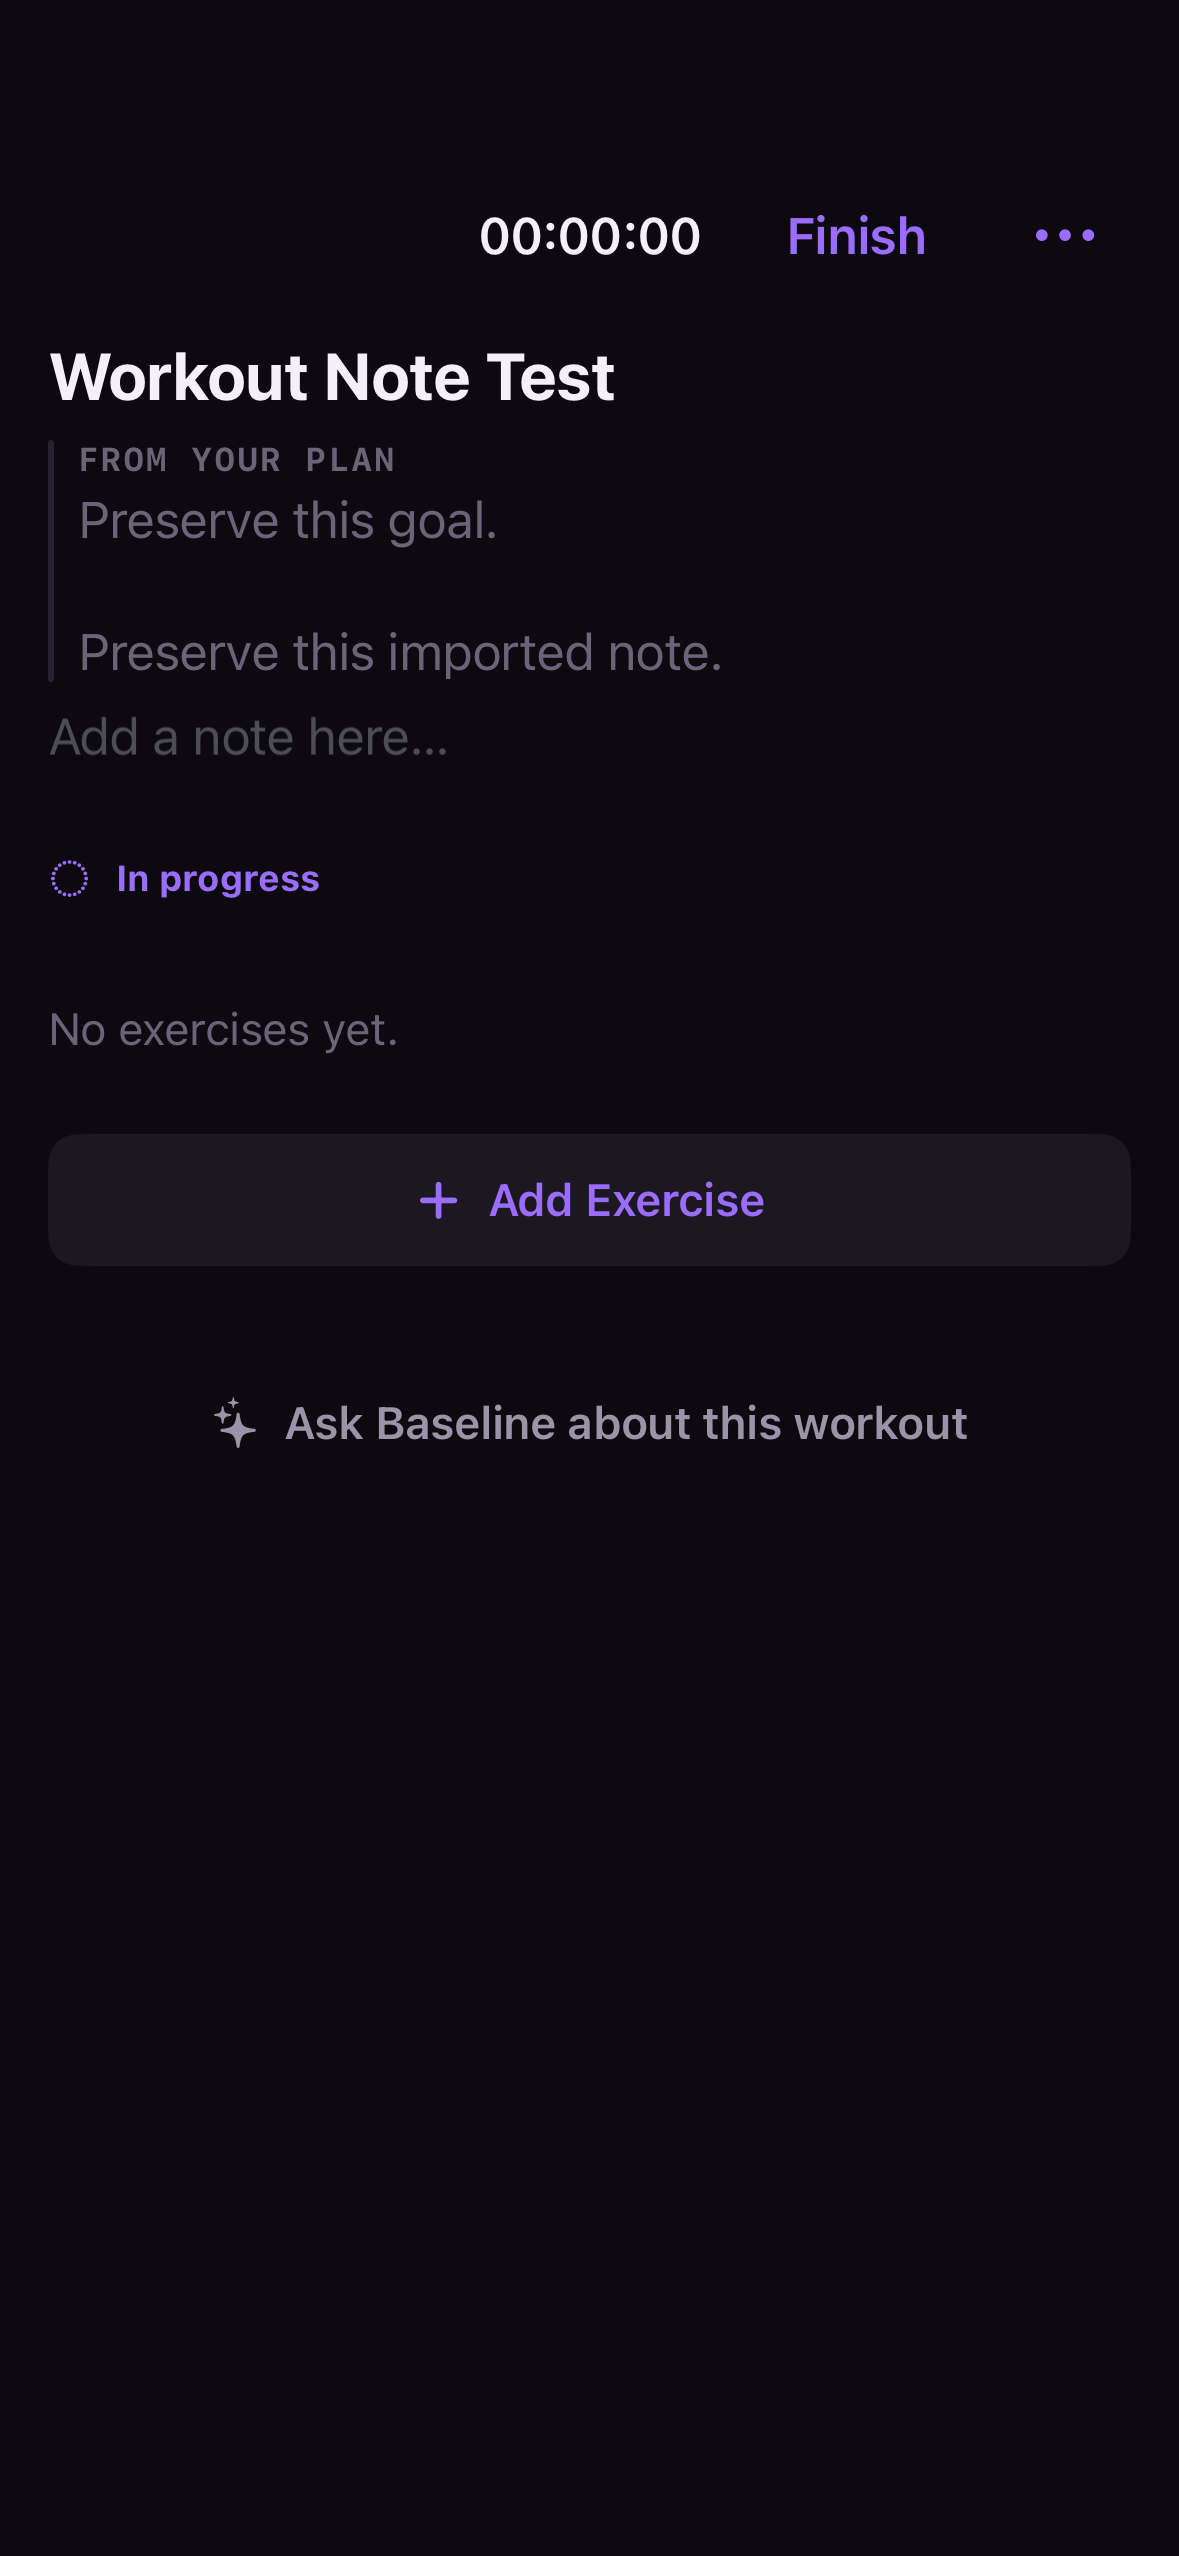
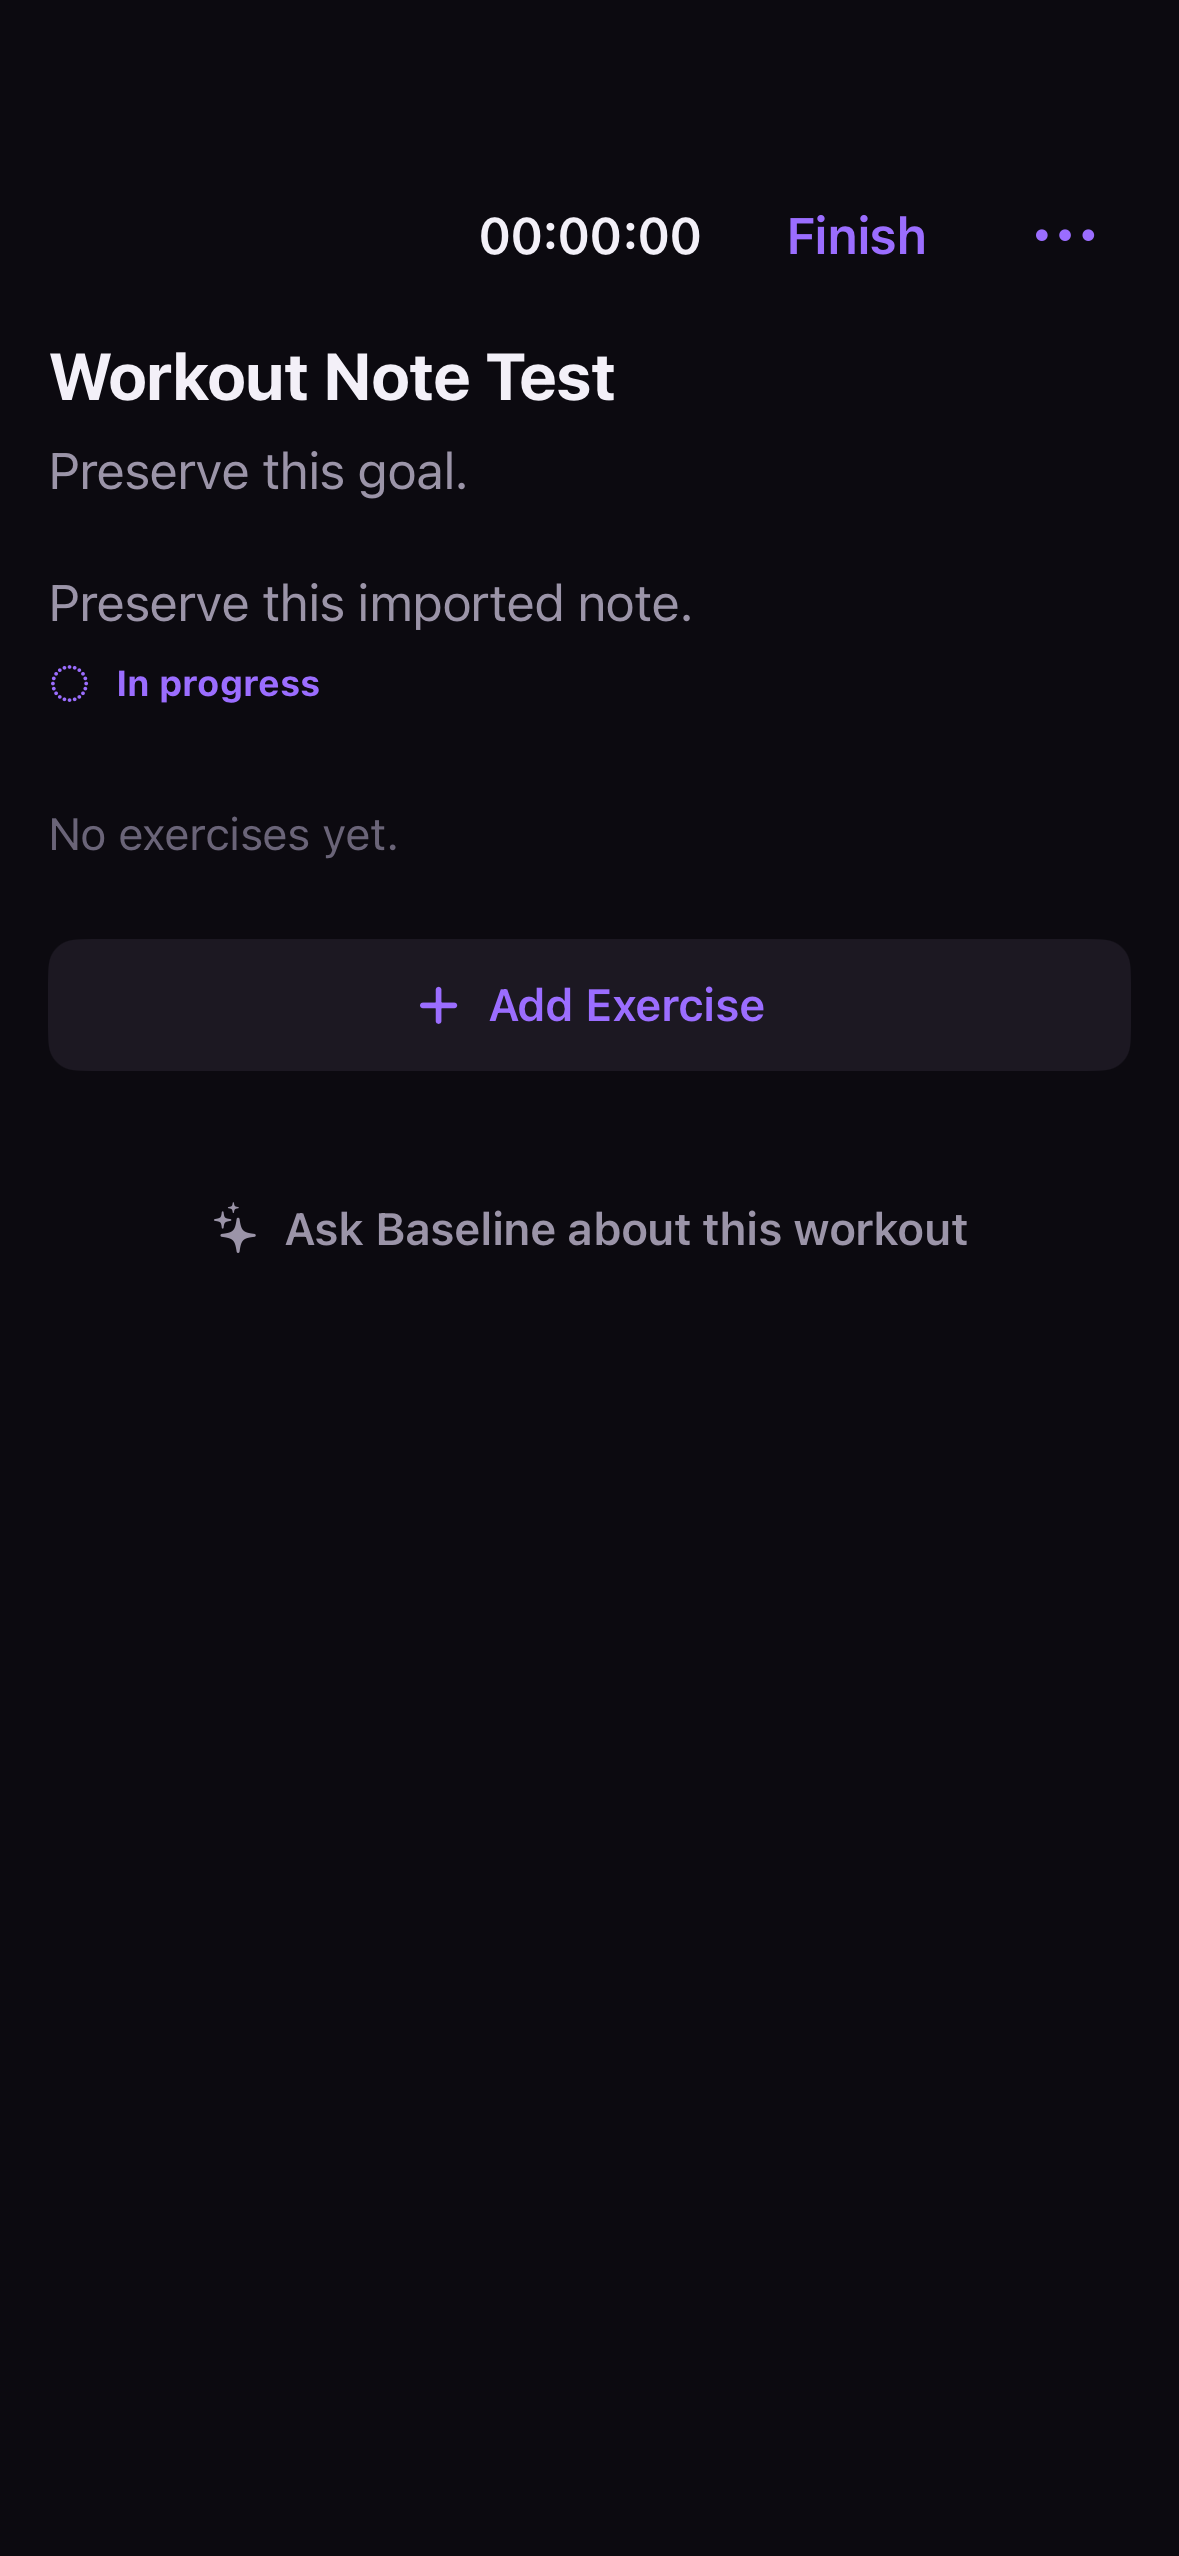
no-mistakes(review): show plan text in the one note field, drop second block

diff --git a/BaselineTests/WorkoutNoteConsolidationRenderTests.swift b/BaselineTests/WorkoutNoteConsolidationRenderTests.swift
@@ -26,45 +26,49 @@ extension IdleTimerRenderTests {
             #expect(screen.workout?.guidance == CoachGuidance(formCues: ["Preserve this imported note."]))
         }
 
-        @Test func loggingShowsThePlanNoteReadOnlyBesideAnEmptyEditableNote() async throws {
+        @Test func loggingShowsThePlanTextInTheOneFieldAndAdoptsItOnTheFirstEdit() async throws {
             let screen = try await WorkoutNoteScreen(stage: .logging, includesLegacyNotes: true)
             defer { screen.tearDown() }
 
-            #expect(screen.hasLabel(containing: "Workout goal") == false)
-
-            // The plan's own text is read-only context, not a prefill: exactly one field is editable and
-            // it starts empty, so the first keystroke can only commit what the athlete typed.
-            #expect(screen.hasLabel(containing: """
-            Plan note. Preserve this goal.
+            let planText = """
+            Preserve this goal.
 
             Preserve this imported note.
-            """))
+            """
+
+            // One workout-level surface, before and after the first edit: the plan's text is the field's
+            // own content rather than a second block that would vanish out from under the cursor.
+            #expect(screen.hasLabel(containing: "Workout goal") == false)
+            #expect(screen.hasLabel(containing: "Plan note") == false)
             #expect(screen.inputCount(labelled: "Workout note") == 1)
-            #expect(screen.inputText(labelled: "Workout note") == "")
-            #expect(screen.hasRenderedText("Add a note here…"))
+            #expect(screen.inputText(labelled: "Workout note") == planText)
+            #expect(screen.hasRenderedText("Add a note here…") == false)
+
+            // Nothing is written until the athlete acts: `startLog` seeded no performed note.
             #expect(screen.log?.athleteNotes == [])
             #expect(screen.log?.hasAuthoredNotes == false)
             try screen.capture("workout-note-plan-fallback")
 
-            try screen.replaceInput(labelled: "Workout note", with: "Legs heavy today.")
+            try screen.replaceInput(labelled: "Workout note", with: "\(planText)\n\nLegs heavy today.")
             try await screen.settle()
 
-            // Typing writes the performed note only; the plan keeps its goal and its guidance, and the
-            // read-only block steps aside now that the session has a note of its own.
-            #expect(screen.log?.athleteNotes == ["Legs heavy today."])
-            #expect(screen.inputText(labelled: "Workout note") == "Legs heavy today.")
-            #expect(screen.hasLabel(containing: "Plan note. Preserve this goal.") == false)
+            // The first edit adopts what was on screen plus the athlete's own words into the log, and
+            // leaves the plan's goal and structured guidance exactly as they were.
+            #expect(screen.log?.athleteNotes == ["\(planText)\n\nLegs heavy today."])
+            #expect(screen.log?.hasAuthoredNotes == true)
+            #expect(screen.inputCount(labelled: "Workout note") == 1)
+            #expect(screen.inputText(labelled: "Workout note") == "\(planText)\n\nLegs heavy today.")
+            #expect(screen.hasLabel(containing: "Plan note") == false)
             #expect(screen.workout?.goal == "Preserve this goal.")
             #expect(screen.workout?.guidance == CoachGuidance(formCues: ["Preserve this imported note."]))
 
-            // Clearing it leaves it cleared: the plan's note can no longer reappear under the cursor.
+            // Clearing it leaves it cleared: the plan's text can no longer reappear under the cursor.
             try screen.replaceInput(labelled: "Workout note", with: "")
             try await screen.settle()
 
             #expect(screen.inputCount(labelled: "Workout note") == 1)
             #expect(screen.inputText(labelled: "Workout note") == "")
             #expect(screen.hasRenderedText("Add a note here…"))
-            #expect(screen.hasLabel(containing: "Plan note. Preserve this goal.") == false)
             #expect(screen.log?.athleteNotes == [])
             #expect(screen.log?.hasAuthoredNotes == true)
         }
@@ -156,7 +160,13 @@ private final class WorkoutNoteScreen: HostedScreen {
         UIApplication.shared.isIdleTimerDisabled = false
     }
 
+    /// UIKit keeps a text field's placeholder label in the hierarchy after the field gains text, so a
+    /// plain lookup would report a placeholder the athlete cannot see. Only labels that actually render
+    /// count.
     func hasRenderedText(_ text: String) -> Bool {
-        views().contains { ($0 as? UILabel)?.text == text }
+        views().contains { view in
+            guard let label = view as? UILabel, label.text == text else { return false }
+            return sequence(first: label, next: \.superview).allSatisfy { !$0.isHidden && $0.alpha > 0.01 }
+        }
     }
 }

diff --git a/Baseline/Features/Workout/WorkoutView.swift b/Baseline/Features/Workout/WorkoutView.swift
@@ -451,9 +451,6 @@ struct WorkoutView: View {
                 .fixedSize(horizontal: false, vertical: true)
 
             if mode.usesPerformedData {
-                if store.currentLog?.hasAuthoredNotes != true, !workout.notesText.isEmpty {
-                    WorkoutPlanNote(text: workout.notesText, font: .body, accessibilityLabel: "Plan note")
-                }
                 WorkoutNotesField(
                     prompt: "Add a note here…",
                     text: sessionNotesBinding,
@@ -572,13 +569,17 @@ struct WorkoutView: View {
         isEditingTemplate = false
     }
 
-    /// The one workout-level note typed while logging or reviewing a session. It is exactly the
-    /// performed note — never prefilled from the plan — so the first keystroke commits only what the
-    /// athlete typed, and backspacing to empty leaves it empty. The plan's own text is a separate
-    /// read-only block above, shown until this field has been committed once.
+    /// The one workout-level note during and after a session — the only workout-level text surface here,
+    /// so nothing appears or disappears around it as the athlete types. Until the field has been edited
+    /// it shows the plan's own text; the first edit adopts whatever is on screen into the log, which is
+    /// the athlete's action rather than a seed `startLog` wrote. From then on it is exactly the performed
+    /// note, independent of later plan changes, and clearing it leaves it cleared.
     private var sessionNotesBinding: Binding<String> {
         Binding(
-            get: { store.currentLog?.notesText ?? "" },
+            get: {
+                guard store.currentLog?.hasAuthoredNotes == true else { return store.current?.notesText ?? "" }
+                return store.currentLog?.notesText ?? ""
+            },
             set: { value in
                 store.editLog { $0.setNotes(value) }
             }
